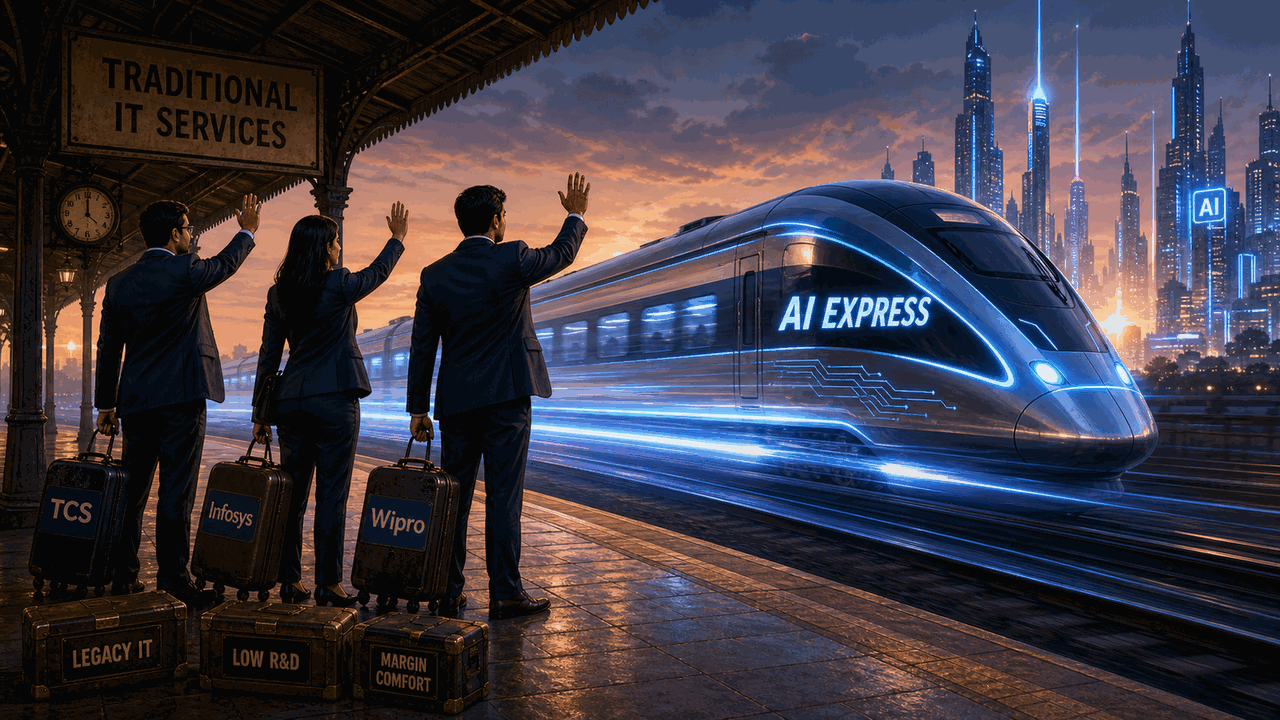
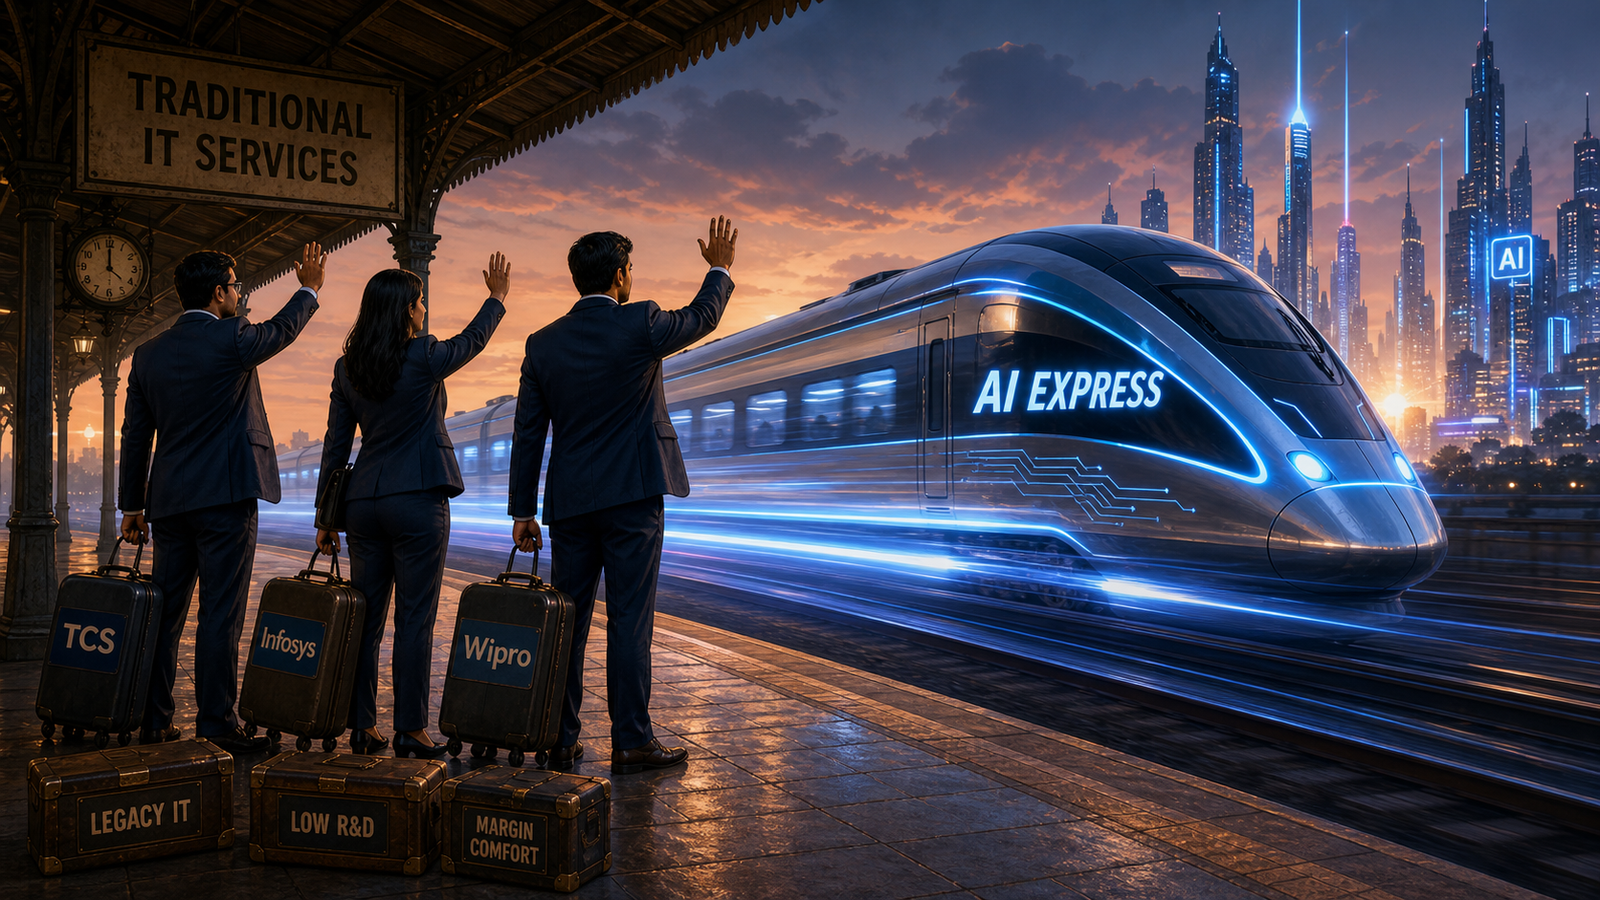
About section: collapse 2-col body to single column at iPad/tablet widths (961-1180px) so paragraphs flow evenly with no uneven column gap (via sidecar)

diff --git a/index.html b/index.html
@@ -1532,7 +1532,10 @@ html[data-theme="light"] .tracker-spotlight {
   .hero { grid-template-columns: minmax(0, 1fr) 420px; column-gap: 48px; }
   .name { font-size: clamp(50px, 8.6vw, 100px); }
   .about { grid-template-columns: 180px minmax(0, 1fr); gap: 44px; padding: 44px 0 48px; }
-  .about-body { column-gap: 32px; }
+  /* Tablet (iPad / mid-width): collapse the 2-column body to a single readable column
+     so paragraphs flow evenly and align with the About aside on the left — no awkward
+     uneven column ends. Phone (<=820px) already does this; this extends it up to iPad widths. */
+  .about-body { column-count: 1; column-gap: 0; max-width: 720px; }
   .doors { gap: 18px; }
   .door { min-height: 240px; padding: 26px 26px 24px; }
 }
@@ -2461,16 +2464,4 @@ function toggleTheme(){
     return isInteractive(el.parentElement);
   }
   card.addEventListener('click', function(e){
-    if (isInteractive(e.target)) return;  // let the inner form/link handle it
-    window.location.href = href;
-  });
-  card.addEventListener('keydown', function(e){
-    if ((e.key === 'Enter' || e.key === ' ') && !isInteractive(e.target)) {
-      e.preventDefault();
-      window.location.href = href;
-    }
-  });
-})();
-</script>
-</body>
-</html>
+    if (isInteractive(e.target)) return; 

diff --git a/blog/posts/crude-oil-india-markets-rupee-inflation/index.html b/blog/posts/crude-oil-india-markets-rupee-inflation/index.html
@@ -304,13 +304,7 @@ body{font-family:'Inter',sans-serif;line-height:1.65;-webkit-font-smoothing:anti
 /* No CSS zoom, page renders at native 100% browser zoom. */
 a{color:var(--accent);text-decoration:none}
 a:hover{text-decoration:underline}
-.theme-toggle{position:fixed;top:18px;right:18px;width:32px;height:32px;border-radius:50%;border:1px solid var(--rule);background:rgba(255,255,255,0.04);color:var(--ink-2);cursor:pointer;display:flex;align-items:center;justify-content:center;z-index:1000;transition:color .2s ease,border-color .2s ease,background .2s ease,transform .2s ease}
-.theme-toggle:hover{color:var(--accent);border-color:var(--accent);background:rgba(212,166,74,0.08);transform:translateY(-1px)}
-.theme-toggle .icon-sun,.theme-toggle .icon-moon{width:15px;height:15px;display:block}
-.theme-toggle .icon-sun{display:none}
-html[data-theme="light"] .theme-toggle .icon-sun{display:block}
-html[data-theme="light"] .theme-toggle .icon-moon{display:none}
-html[data-theme="light"] .theme-toggle{background:rgba(26,52,88,0.04)}
+.theme-toggle{position:fixed;top:18px;right:18px;width:42px;height:42px;border-radius:50%;border:1px solid var(--rule);background:var(--bg-2);color:var(--ink);cursor:pointer;display:flex;align-items:center;justify-content:center;font-size:18px;z-index:1000}
 .page{width:100%;max-width:1280px;margin:0 auto;padding:56px 24px 96px}
 .crumb{display:flex;justify-content:space-between;align-items:center;gap:16px;font-size:11px;letter-spacing:1.6px;text-transform:uppercase;color:var(--muted);margin-bottom:24px}
 .crumb a{color:var(--muted)}
@@ -487,7 +481,7 @@ strong{color:var(--ink);font-weight:700}
 </style>
 </head>
 <body>
-<button class="theme-toggle" aria-label="Toggle light / dark theme" title="Toggle theme" type="button" onclick="(function(){var c=document.documentElement.getAttribute('data-theme')||'dark';var n=c==='light'?'dark':'light';document.documentElement.setAttribute('data-theme',n);try{localStorage.setItem('hd-theme',n)}catch(e){}})()"><svg class="icon-sun" viewBox="0 0 24 24" fill="none" stroke="currentColor" stroke-width="2" stroke-linecap="round" stroke-linejoin="round" aria-hidden="true"><circle cx="12" cy="12" r="4"></circle><path d="M12 2v2M12 20v2M4.93 4.93l1.41 1.41M17.66 17.66l1.41 1.41M2 12h2M20 12h2M4.93 19.07l1.41-1.41M17.66 6.34l1.41-1.41"></path></svg><svg class="icon-moon" viewBox="0 0 24 24" fill="none" stroke="currentColor" stroke-width="2" stroke-linecap="round" stroke-linejoin="round" aria-hidden="true"><path d="M21 12.79A9 9 0 1 1 11.21 3 7 7 0 0 0 21 12.79z"></path></svg></button>
+<button class="theme-toggle" aria-label="Toggle theme" onclick="(function(){var c=document.documentElement.getAttribute('data-theme')||'dark';var n=c==='light'?'dark':'light';document.documentElement.setAttribute('data-theme',n);try{localStorage.setItem('hd-theme',n)}catch(e){}})()">☼</button>
 <main class="page" itemscope itemtype="https://schema.org/BlogPosting">
   <nav class="crumb" aria-label="Breadcrumb"><a class="crumb-back" href="../../">&larr; Back to Blogs</a><span class="crumb-trail"><a href="../../../">Harshal Dasani</a> &middot; <a href="../../">Blogs</a> &middot; <span>Commodities</span></span></nav>
   <span class="topic-pill">Commodities</span>

diff --git a/blog/posts/indian-it-stocks-whats-breaking/index.html b/blog/posts/indian-it-stocks-whats-breaking/index.html
@@ -273,13 +273,7 @@ body{font-family:'Inter',sans-serif;line-height:1.65;-webkit-font-smoothing:anti
 /* No CSS zoom, page renders at native 100% browser zoom. */
 a{color:var(--accent);text-decoration:none}
 a:hover{text-decoration:underline}
-.theme-toggle{position:fixed;top:18px;right:18px;width:32px;height:32px;border-radius:50%;border:1px solid var(--rule);background:rgba(255,255,255,0.04);color:var(--ink-2);cursor:pointer;display:flex;align-items:center;justify-content:center;z-index:1000;transition:color .2s ease,border-color .2s ease,background .2s ease,transform .2s ease}
-.theme-toggle:hover{color:var(--accent);border-color:var(--accent);background:rgba(212,166,74,0.08);transform:translateY(-1px)}
-.theme-toggle .icon-sun,.theme-toggle .icon-moon{width:15px;height:15px;display:block}
-.theme-toggle .icon-sun{display:none}
-html[data-theme="light"] .theme-toggle .icon-sun{display:block}
-html[data-theme="light"] .theme-toggle .icon-moon{display:none}
-html[data-theme="light"] .theme-toggle{background:rgba(26,52,88,0.04)}
+.theme-toggle{position:fixed;top:18px;right:18px;width:42px;height:42px;border-radius:50%;border:1px solid var(--rule);background:var(--bg-2);color:var(--ink);cursor:pointer;display:flex;align-items:center;justify-content:center;font-size:18px;z-index:1000}
 .page{width:100%;max-width:1280px;margin:0 auto;padding:56px 24px 96px}
 .crumb{display:flex;justify-content:space-between;align-items:center;gap:16px;font-size:11px;letter-spacing:1.6px;text-transform:uppercase;color:var(--muted);margin-bottom:24px}
 .crumb a{color:var(--muted)}
@@ -456,7 +450,7 @@ strong{color:var(--ink);font-weight:700}
 </style>
 </head>
 <body>
-<button class="theme-toggle" aria-label="Toggle light / dark theme" title="Toggle theme" type="button" onclick="(function(){var c=document.documentElement.getAttribute('data-theme')||'dark';var n=c==='light'?'dark':'light';document.documentElement.setAttribute('data-theme',n);try{localStorage.setItem('hd-theme',n)}catch(e){}})()"><svg class="icon-sun" viewBox="0 0 24 24" fill="none" stroke="currentColor" stroke-width="2" stroke-linecap="round" stroke-linejoin="round" aria-hidden="true"><circle cx="12" cy="12" r="4"></circle><path d="M12 2v2M12 20v2M4.93 4.93l1.41 1.41M17.66 17.66l1.41 1.41M2 12h2M20 12h2M4.93 19.07l1.41-1.41M17.66 6.34l1.41-1.41"></path></svg><svg class="icon-moon" viewBox="0 0 24 24" fill="none" stroke="currentColor" stroke-width="2" stroke-linecap="round" stroke-linejoin="round" aria-hidden="true"><path d="M21 12.79A9 9 0 1 1 11.21 3 7 7 0 0 0 21 12.79z"></path></svg></button>
+<button class="theme-toggle" aria-label="Toggle theme" onclick="(function(){var c=document.documentElement.getAttribute('data-theme')||'dark';var n=c==='light'?'dark':'light';document.documentElement.setAttribute('data-theme',n);try{localStorage.setItem('hd-theme',n)}catch(e){}})()">☼</button>
 <main class="page" itemscope itemtype="https://schema.org/BlogPosting">
   <nav class="crumb" aria-label="Breadcrumb"><a class="crumb-back" href="../../">&larr; Back to Blogs</a><span class="crumb-trail"><a href="../../../">Harshal Dasani</a> &middot; <a href="../../">Blogs</a> &middot; <span>Stock Market</span></span></nav>
   <span class="topic-pill">Stock Market</span>

diff --git a/blog/posts/rbi-mpc-june-2026-rate-pause/index.html b/blog/posts/rbi-mpc-june-2026-rate-pause/index.html
@@ -261,13 +261,7 @@ body{font-family:'Inter',sans-serif;line-height:1.65;-webkit-font-smoothing:anti
 /* No CSS zoom, page renders at native 100% browser zoom. */
 a{color:var(--accent);text-decoration:none}
 a:hover{text-decoration:underline}
-.theme-toggle{position:fixed;top:18px;right:18px;width:32px;height:32px;border-radius:50%;border:1px solid var(--rule);background:rgba(255,255,255,0.04);color:var(--ink-2);cursor:pointer;display:flex;align-items:center;justify-content:center;z-index:1000;transition:color .2s ease,border-color .2s ease,background .2s ease,transform .2s ease}
-.theme-toggle:hover{color:var(--accent);border-color:var(--accent);background:rgba(212,166,74,0.08);transform:translateY(-1px)}
-.theme-toggle .icon-sun,.theme-toggle .icon-moon{width:15px;height:15px;display:block}
-.theme-toggle .icon-sun{display:none}
-html[data-theme="light"] .theme-toggle .icon-sun{display:block}
-html[data-theme="light"] .theme-toggle .icon-moon{display:none}
-html[data-theme="light"] .theme-toggle{background:rgba(26,52,88,0.04)}
+.theme-toggle{position:fixed;top:18px;right:18px;width:42px;height:42px;border-radius:50%;border:1px solid var(--rule);background:var(--bg-2);color:var(--ink);cursor:pointer;display:flex;align-items:center;justify-content:center;font-size:18px;z-index:1000}
 .page{width:100%;max-width:1280px;margin:0 auto;padding:56px 24px 96px}
 .crumb{display:flex;justify-content:space-between;align-items:center;gap:16px;font-size:11px;letter-spacing:1.6px;text-transform:uppercase;color:var(--muted);margin-bottom:24px}
 .crumb a{color:var(--muted)}
@@ -496,7 +490,7 @@ strong{color:var(--ink);font-weight:700}
 </style>
 </head>
 <body>
-<button class="theme-toggle" aria-label="Toggle light / dark theme" title="Toggle theme" type="button" onclick="(function(){var c=document.documentElement.getAttribute('data-theme')||'dark';var n=c==='light'?'dark':'light';document.documentElement.setAttribute('data-theme',n);try{localStorage.setItem('hd-theme',n)}catch(e){}})()"><svg class="icon-sun" viewBox="0 0 24 24" fill="none" stroke="currentColor" stroke-width="2" stroke-linecap="round" stroke-linejoin="round" aria-hidden="true"><circle cx="12" cy="12" r="4"></circle><path d="M12 2v2M12 20v2M4.93 4.93l1.41 1.41M17.66 17.66l1.41 1.41M2 12h2M20 12h2M4.93 19.07l1.41-1.41M17.66 6.34l1.41-1.41"></path></svg><svg class="icon-moon" viewBox="0 0 24 24" fill="none" stroke="currentColor" stroke-width="2" stroke-linecap="round" stroke-linejoin="round" aria-hidden="true"><path d="M21 12.79A9 9 0 1 1 11.21 3 7 7 0 0 0 21 12.79z"></path></svg></button>
+<button class="theme-toggle" aria-label="Toggle theme" onclick="(function(){var c=document.documentElement.getAttribute('data-theme')||'dark';var n=c==='light'?'dark':'light';document.documentElement.setAttribute('data-theme',n);try{localStorage.setItem('hd-theme',n)}catch(e){}})()">☼</button>
 <main class="page" itemscope itemtype="https://schema.org/BlogPosting">
   <nav class="crumb" aria-label="Breadcrumb"><a class="crumb-back" href="../../">&larr; Back to Blogs</a><span class="crumb-trail"><a href="../../../">Harshal Dasani</a> &middot; <a href="../../">Blogs</a> &middot; <span>Macros</span></span></nav>
   <span class="topic-pill">Macros</span>

diff --git a/Harshal_Dasani_Dashboard.html b/Harshal_Dasani_Dashboard.html
@@ -1870,6 +1870,10 @@ document.addEventListener('DOMContentLoaded', () => {
     if (_urlPub) {
       setTimeout(function(){ setDrill('pub', _urlPub); }, 350);
     }
+    var _urlTopic = _urlParams.get('topic');
+    if (_urlTopic) {
+      setTimeout(function(){ setDrill('topic', _urlTopic); }, 350);
+    }
   } catch(e) {}
   const inp = document.getElementById('feat-search');
   if (inp) {

diff --git a/blog/_tools/publish_blog.py b/blog/_tools/publish_blog.py
@@ -886,13 +886,7 @@ body{{font-family:'Inter',sans-serif;line-height:1.65;-webkit-font-smoothing:ant
 /* No CSS zoom — page renders at native 100% browser zoom. */
 a{{color:var(--accent);text-decoration:none}}
 a:hover{{text-decoration:underline}}
-.theme-toggle{{position:fixed;top:18px;right:18px;width:32px;height:32px;border-radius:50%;border:1px solid var(--rule);background:rgba(255,255,255,0.04);color:var(--ink-2);cursor:pointer;display:flex;align-items:center;justify-content:center;z-index:1000;transition:color .2s ease,border-color .2s ease,background .2s ease,transform .2s ease}}
-.theme-toggle:hover{{color:var(--accent);border-color:var(--accent);background:rgba(212,166,74,0.08);transform:translateY(-1px)}}
-.theme-toggle .icon-sun,.theme-toggle .icon-moon{{width:15px;height:15px;display:block}}
-.theme-toggle .icon-sun{{display:none}}
-html[data-theme="light"] .theme-toggle .icon-sun{{display:block}}
-html[data-theme="light"] .theme-toggle .icon-moon{{display:none}}
-html[data-theme="light"] .theme-toggle{{background:rgba(26,52,88,0.04)}}
+.theme-toggle{{position:fixed;top:18px;right:18px;width:42px;height:42px;border-radius:50%;border:1px solid var(--rule);background:var(--bg-2);color:var(--ink);cursor:pointer;display:flex;align-items:center;justify-content:center;font-size:18px;z-index:1000}}
 .page{{width:100%;max-width:1280px;margin:0 auto;padding:56px 24px 96px}}
 .crumb{{display:flex;justify-content:space-between;align-items:center;gap:16px;font-size:11px;letter-spacing:1.6px;text-transform:uppercase;color:var(--muted);margin-bottom:24px}}
 .crumb a{{color:var(--muted)}}
@@ -1121,7 +1115,7 @@ strong{{color:var(--ink);font-weight:700}}
 </style>
 </head>
 <body>
-<button class="theme-toggle" aria-label="Toggle light / dark theme" title="Toggle theme" type="button" onclick="(function(){{var c=document.documentElement.getAttribute('data-theme')||'dark';var n=c==='light'?'dark':'light';document.documentElement.setAttribute('data-theme',n);try{{localStorage.setItem('hd-theme',n)}}catch(e){{}}}})()"><svg class="icon-sun" viewBox="0 0 24 24" fill="none" stroke="currentColor" stroke-width="2" stroke-linecap="round" stroke-linejoin="round" aria-hidden="true"><circle cx="12" cy="12" r="4"></circle><path d="M12 2v2M12 20v2M4.93 4.93l1.41 1.41M17.66 17.66l1.41 1.41M2 12h2M20 12h2M4.93 19.07l1.41-1.41M17.66 6.34l1.41-1.41"></path></svg><svg class="icon-moon" viewBox="0 0 24 24" fill="none" stroke="currentColor" stroke-width="2" stroke-linecap="round" stroke-linejoin="round" aria-hidden="true"><path d="M21 12.79A9 9 0 1 1 11.21 3 7 7 0 0 0 21 12.79z"></path></svg></button>
+<button class="theme-toggle" aria-label="Toggle theme" onclick="(function(){{var c=document.documentElement.getAttribute('data-theme')||'dark';var n=c==='light'?'dark':'light';document.documentElement.setAttribute('data-theme',n);try{{localStorage.setItem('hd-theme',n)}}catch(e){{}}}})()">☼</button>
 <main class="page" itemscope itemtype="https://schema.org/BlogPosting">
   <nav class="crumb" aria-label="Breadcrumb"><a class="crumb-back" href="../../">&larr; Back to Blogs</a><span class="crumb-trail"><a href="../../../">Harshal Dasani</a> &middot; <a href="../../">Blogs</a> &middot; <span>{topic_label}</span></span></nav>
   <span class="topic-pill">{topic_label}</span>